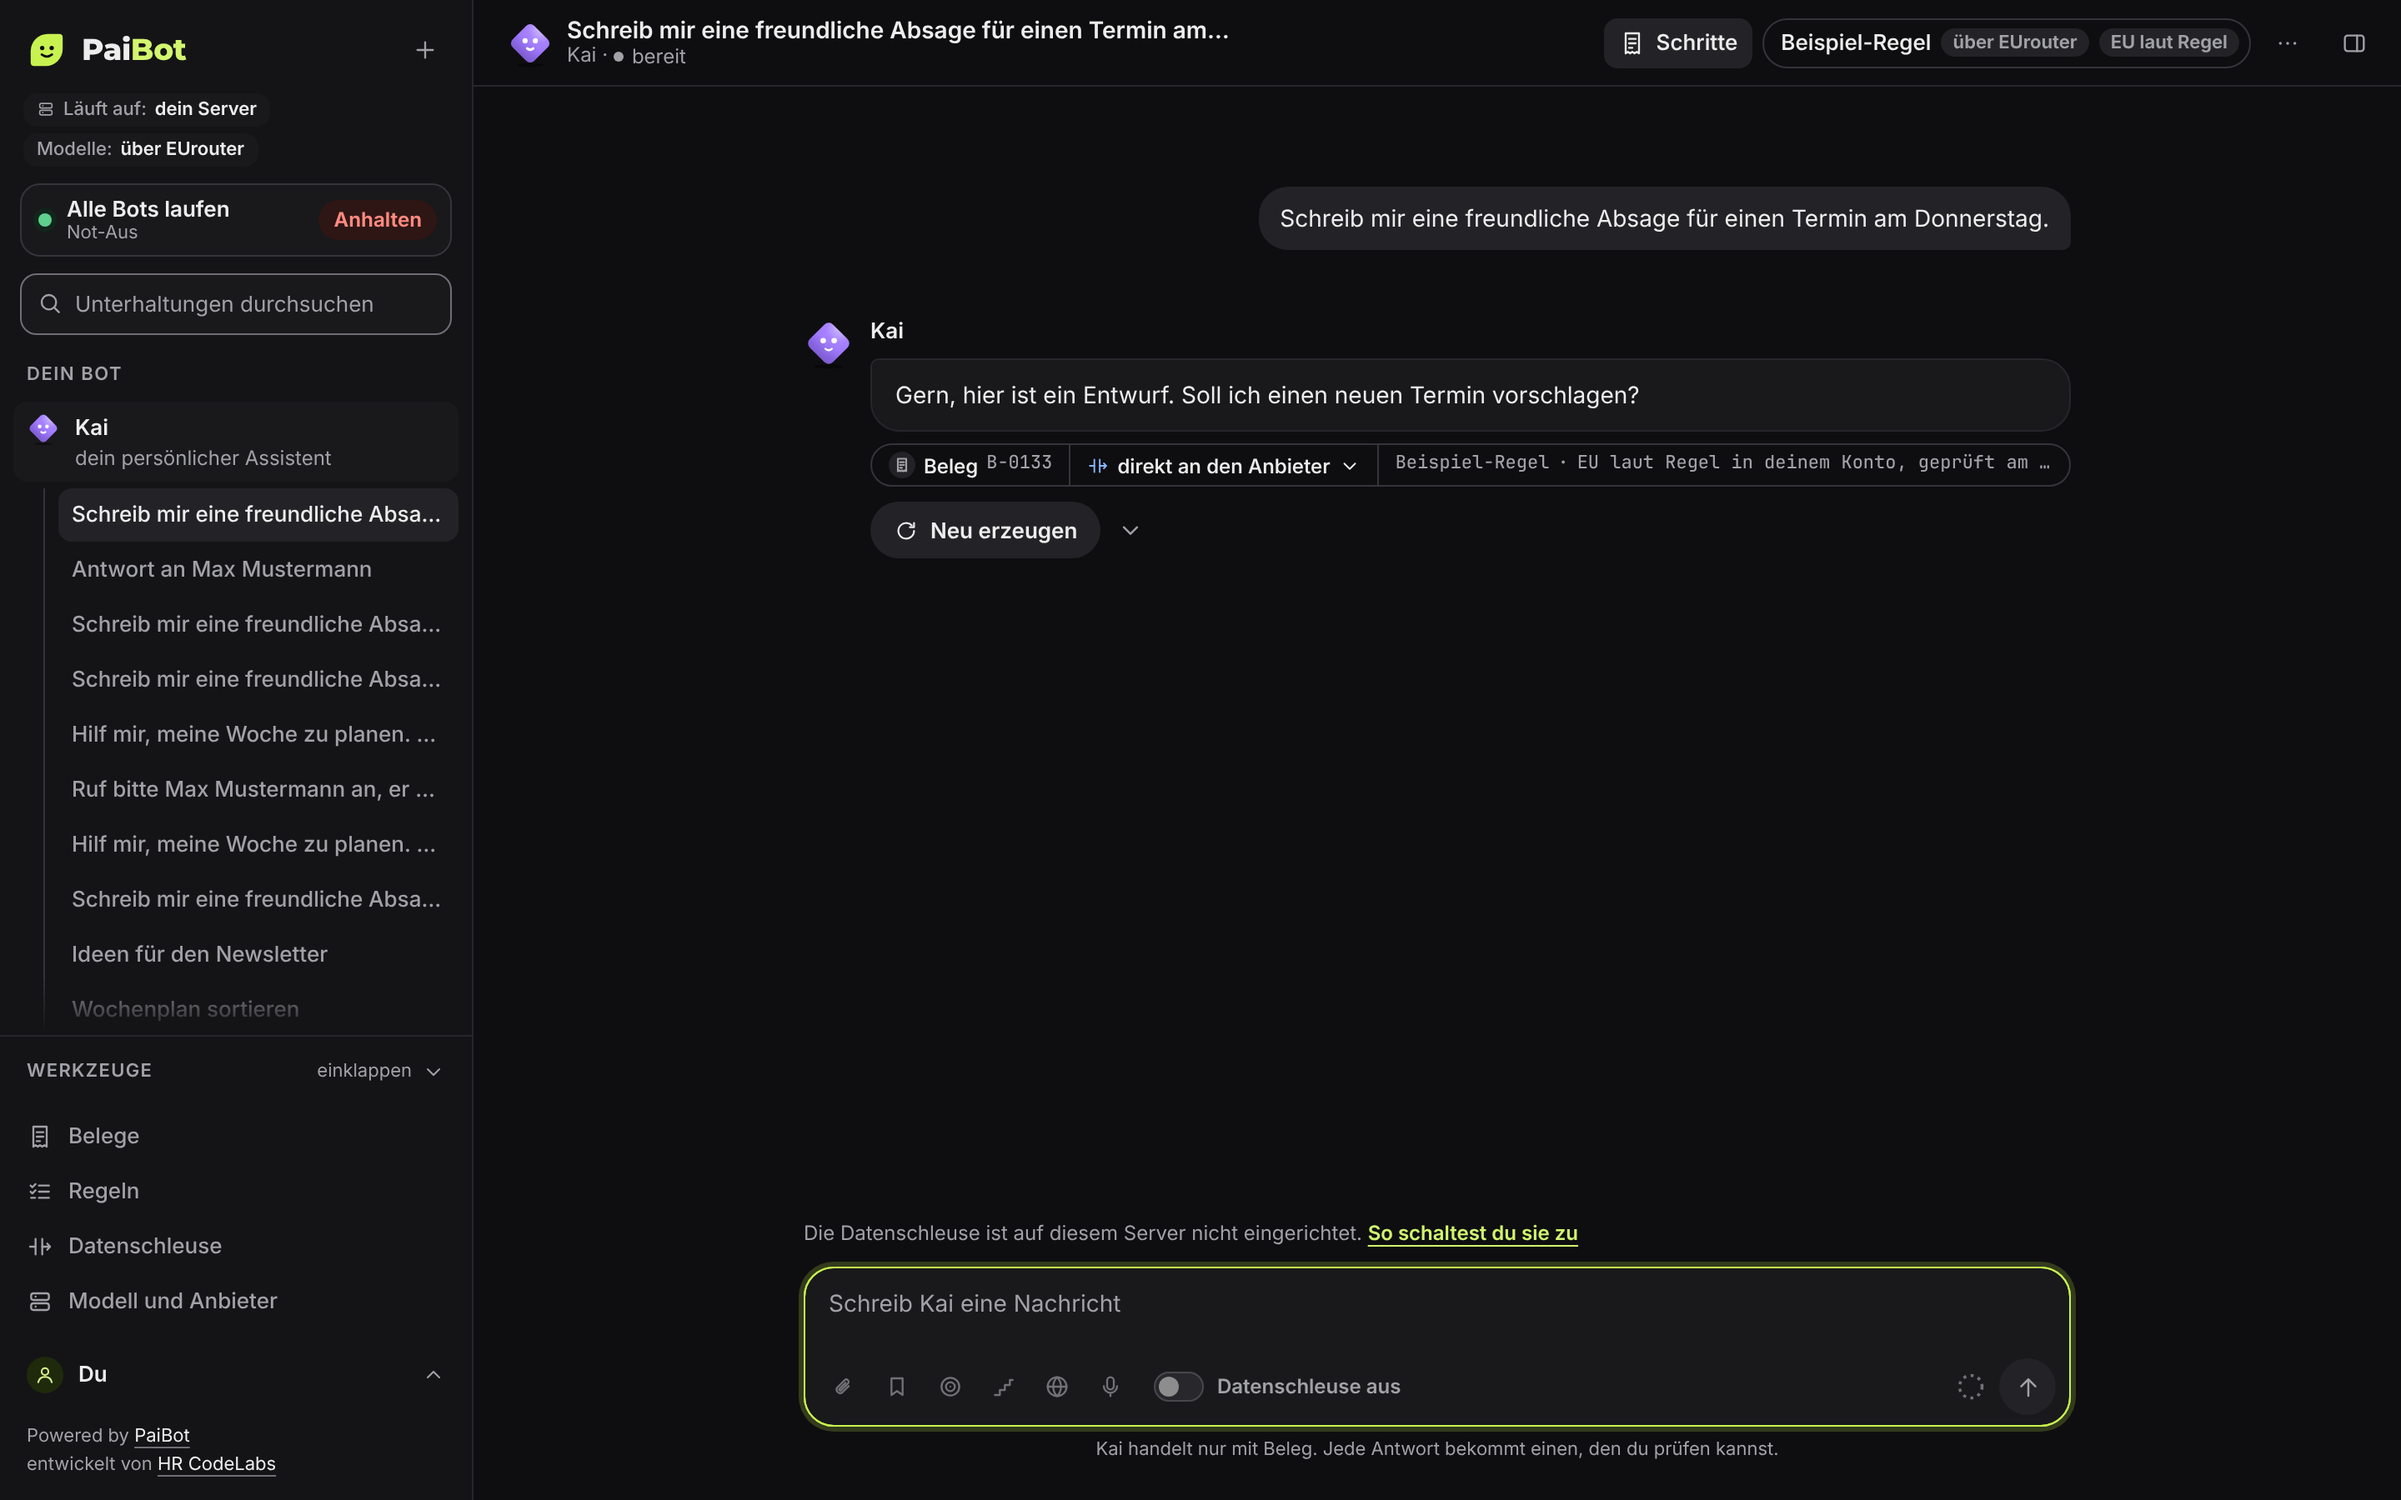
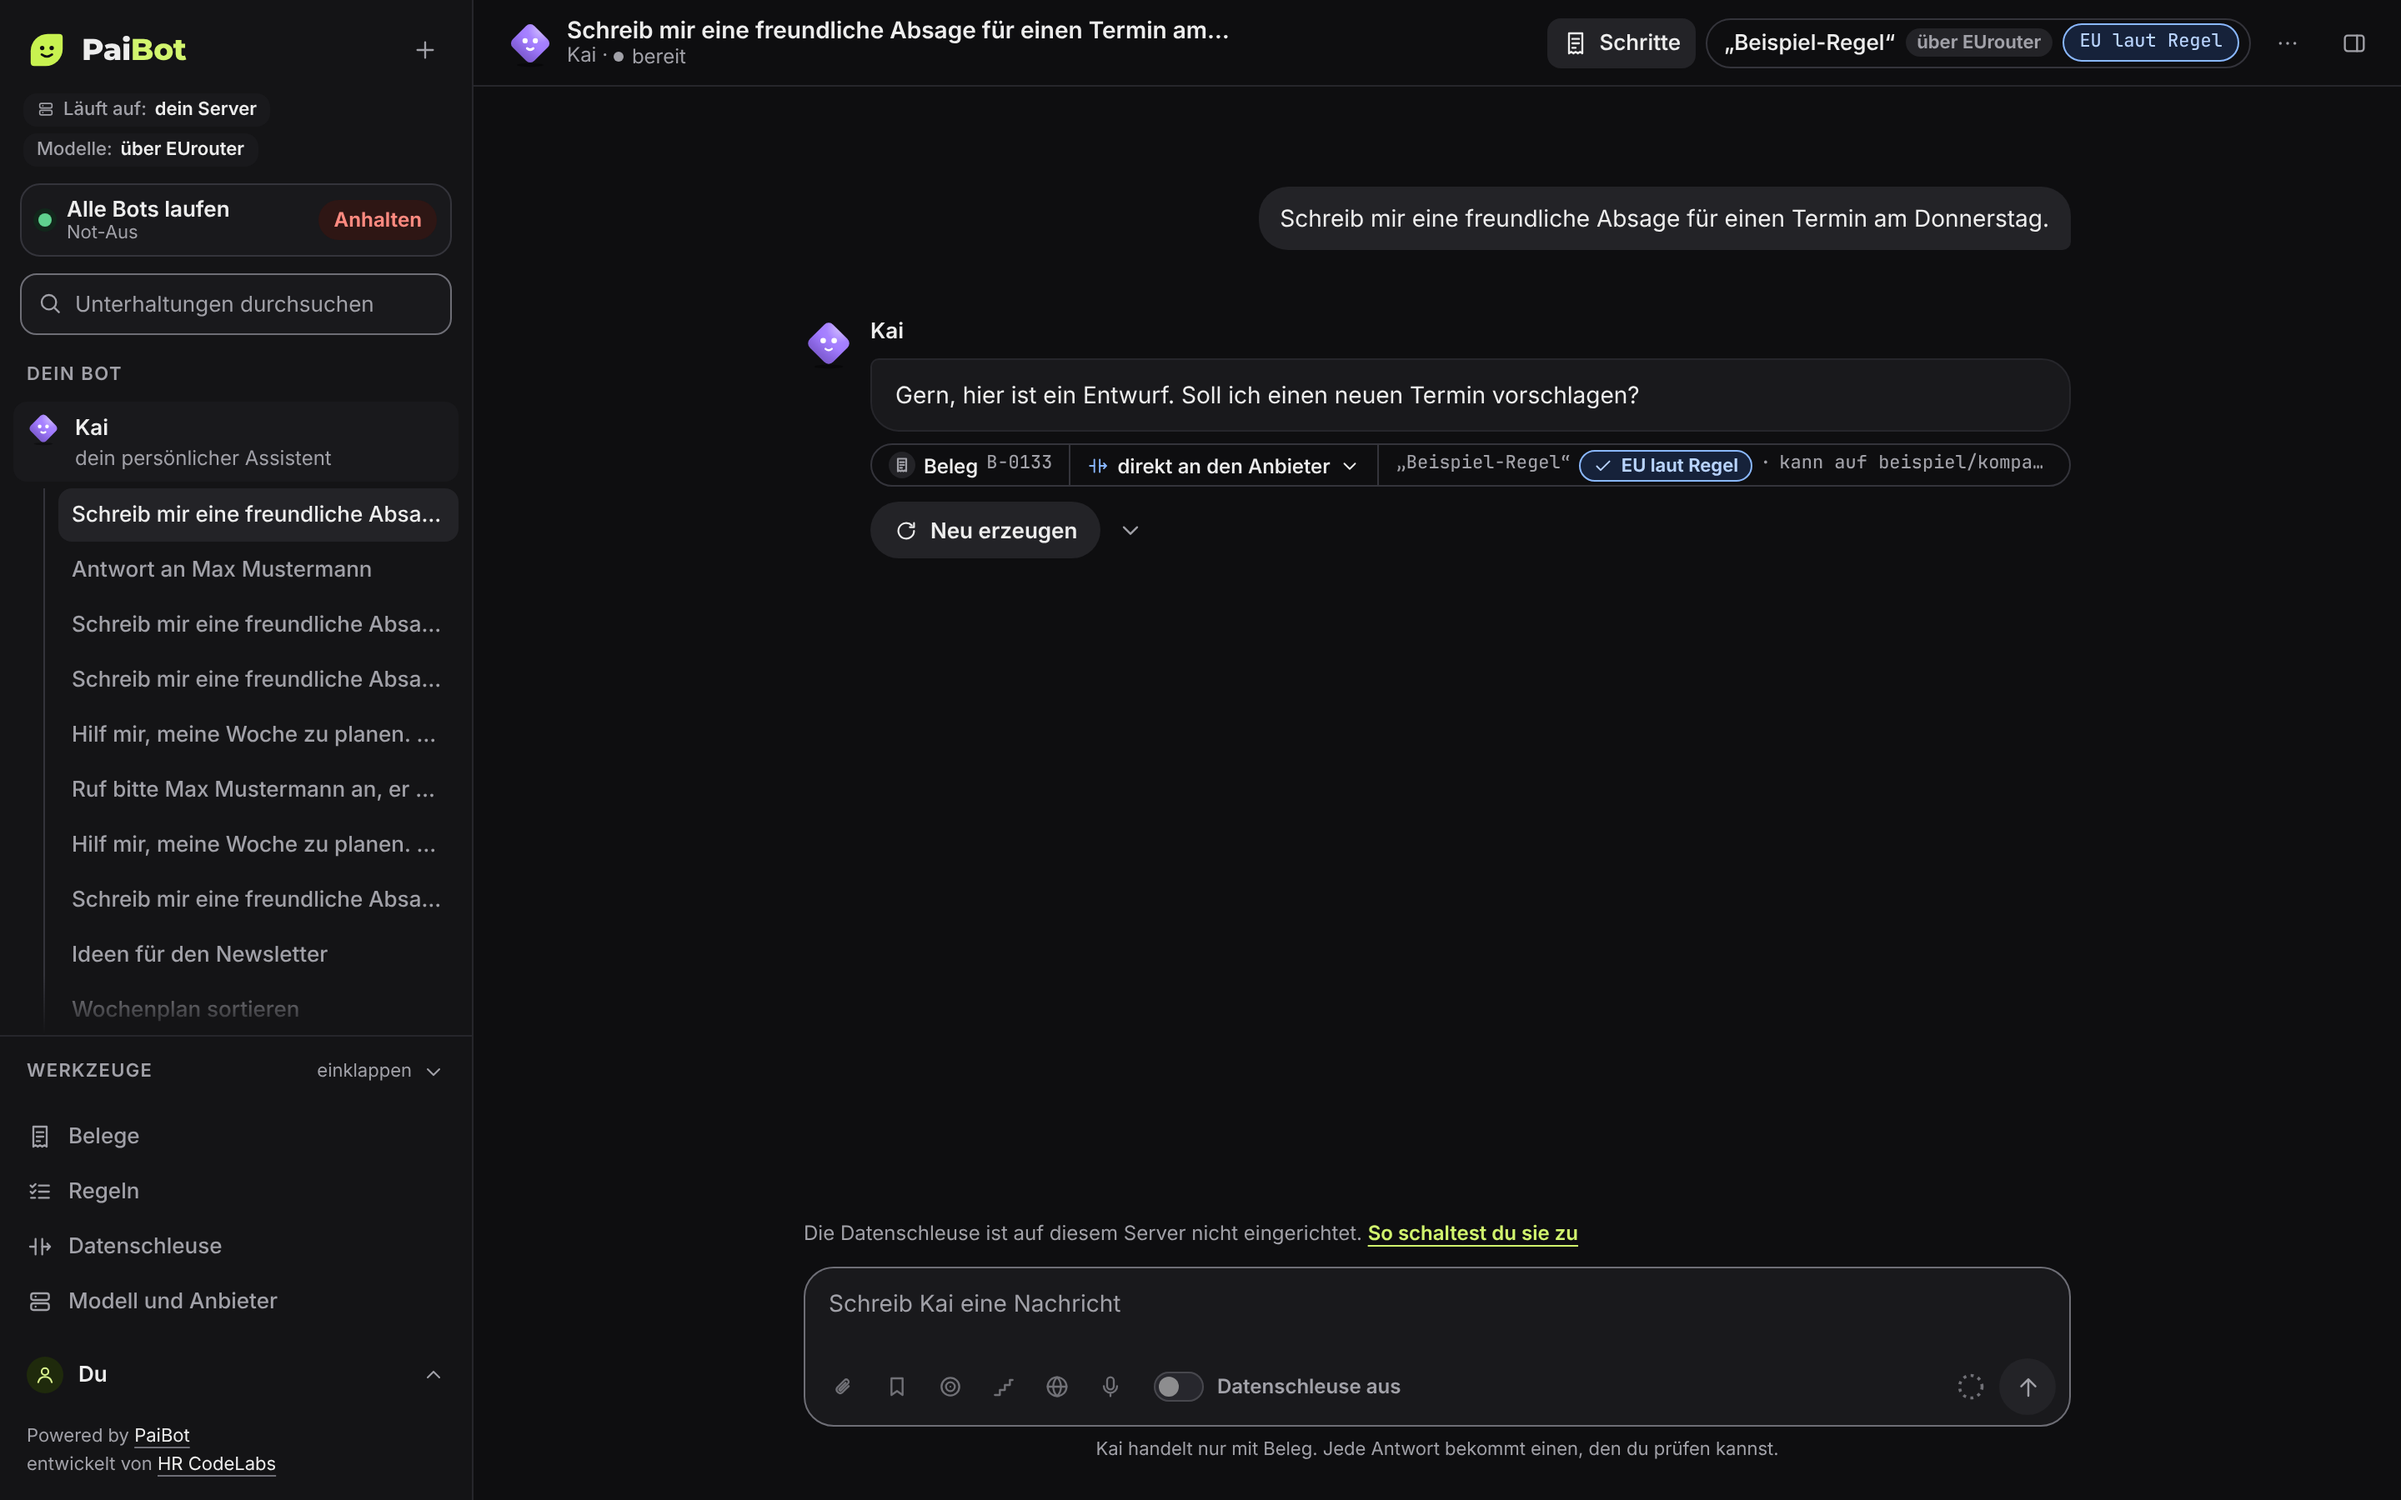
fix(chat): Kennzeichnung unter der Antwort als kurze Marke, Satz im Titel; Bild neu (#77)
Die Marke steht kurz („EU laut Regel“), der ganze Satz mit Herkunft und Datum
im Titel, für Bildschirmleser und aufgeklappt. Das Bild zur Regel im Chat wird
nach dem Neuladen der Seite aufgenommen, weil eine fertige Antwort ihre
Kennzeichnung erst mit dem eigenen Modell der Nachricht trägt.

Claude-Session: https://claude.ai/code/session_01MLo9cAeNc1r994E5agV7ky

diff --git a/packages/ui/src/chat/AntwortZeile.tsx b/packages/ui/src/chat/AntwortZeile.tsx
@@ -51,7 +51,14 @@ export interface ModellAngabe {
    * Kennzeichnung von PaiBot (z. B. „EU laut Regel …“) als eigenes Element mit eigenem Rahmen. Sie
    * kommt nie aus dem Namen, sondern nur von hier.
    */
-  kennzeichnung?: string;
+  kennzeichnung?: KennzeichnungAngabe;
+}
+
+export interface KennzeichnungAngabe {
+  /** Kurze Marke, z. B. „EU laut Regel“. */
+  marke: string;
+  /** Ganzer Satz mit Herkunft und Datum; steht im Titel, für Bildschirmleser und aufgeklappt. */
+  satz: string;
 }
 
 function nameText(modell: ModellAngabe): string {
@@ -59,17 +66,23 @@ function nameText(modell: ModellAngabe): string {
 }
 
 /** Eigenes Element für die Kennzeichnung von PaiBot, für Bildschirmleser getrennt benannt. */
-export function Kennzeichnung({ text, voll = false }: { text: string; voll?: boolean }) {
+export function Kennzeichnung({
+  angabe,
+  voll = false,
+}: {
+  angabe: KennzeichnungAngabe;
+  voll?: boolean;
+}) {
   return (
     <span
       className={styles.kennzeichnung}
       data-art={voll ? "kennzeichnung-voll" : "kennzeichnung"}
       role="note"
-      aria-label={t("antwort.kennzeichnung", { text })}
-      title={text}
+      aria-label={t("antwort.kennzeichnung", { text: angabe.satz })}
+      title={angabe.satz}
     >
       <Icon name="check" />
-      <span>{text}</span>
+      <span>{voll ? angabe.satz : angabe.marke}</span>
     </span>
   );
 }
@@ -191,7 +204,7 @@ export function ModellHerkunft({ modell }: { modell: ModellAngabe }) {
       title={[name, region].filter((x) => x !== undefined).join(" · ")}
     >
       <span className={styles.lang}>{name}</span>
-      {kennzeichnung !== undefined && <Kennzeichnung text={kennzeichnung} />}
+      {kennzeichnung !== undefined && <Kennzeichnung angabe={kennzeichnung} />}
       {region !== undefined && (
         <>
           <span className={styles.lang} aria-hidden="true">
@@ -243,7 +256,7 @@ export function AntwortZeile({ beleg, schleuse, modell, details }: AntwortZeileP
           <li>{region === undefined ? nameText(modell) : `${nameText(modell)} · ${region}`}</li>
           {modell.kennzeichnung !== undefined && (
             <li>
-              <Kennzeichnung text={modell.kennzeichnung} voll />
+              <Kennzeichnung angabe={modell.kennzeichnung} voll />
             </li>
           )}
         </ul>

diff --git a/apps/web/src/app/(app)/chat/ChatSeite.tsx b/apps/web/src/app/(app)/chat/ChatSeite.tsx
@@ -648,7 +648,8 @@ export function ChatSeite({
         </div>
       ) : null;
     }
-    const kennzeichnung = kennzeichnungKurz(modell.vorgabe);
+    const satz = kennzeichnungKurz(modell.vorgabe);
+    const marke = euMarke(modell.vorgabe);
     const herkunft = [
       ausweichKurz(modell.vorgabe),
       antwortHerkunft(modell.anbieter, n.servedBy, bereitschaft.unterAnbieter),
@@ -662,7 +663,7 @@ export function ChatSeite({
         modell={{
           name: modell.name,
           ...(modell.anbieter?.templateKey === "eurouter" ? { nameFrei: true } : {}),
-          ...(kennzeichnung === undefined ? {} : { kennzeichnung }),
+          ...(satz === undefined || marke === undefined ? {} : { kennzeichnung: { marke, satz } }),
           ...(herkunft === "" ? {} : { herkunft }),
         }}
       />

diff --git a/packages/ui/src/chat/AntwortZeile.module.css b/packages/ui/src/chat/AntwortZeile.module.css
@@ -144,7 +144,7 @@ button.teil:focus-visible {
   display: inline-flex;
   align-items: center;
   gap: 4px;
-  min-width: 0;
+  flex: none;
   border: 1px solid var(--eu);
   border-radius: var(--radius-pill);
   background: var(--eu-soft);
@@ -157,9 +157,7 @@ button.teil:focus-visible {
 }
 
 .kennzeichnung > span {
-  min-width: 0;
-  overflow: hidden;
-  text-overflow: ellipsis;
+  white-space: nowrap;
 }
 
 .kennzeichnung svg {

diff --git a/docs/funktion-anbieter-und-modelle.md b/docs/funktion-anbieter-und-modelle.md
@@ -136,11 +136,11 @@ Mit dem normalen Schlüssel kann PaiBot nicht lesen, was eine Regel vorgibt. Mit
 
     ![Nach „Alle Regeln erneut prüfen“: Meldung „Erneut gelesen. Aktualisiert: 1.“](assets/screenshots/modelle-regel-neu-pruefen.png)
 35. Kann eine Regel ausweichen, sagt PaiBot es: „Kann auf … ausweichen“, wenn die Regel Ausweich-Modelle nennt, oder „Kann ausweichen“, wenn sie es erlaubt. Wer tatsächlich antwortet, steht an jeder Antwort. Dieselbe Regel hat in echten Aufrufen schon von verschiedenen Anbietern geantwortet.
-36. Wähle die Regel und klicke „Modell übernehmen“. Im Chat steht die Marke im Kopf und in der Zeile unter der Antwort, mit dem Datum. Der Name der Regel steht dort als schlichter Text in Anführungszeichen; die Kennzeichnung ist ein eigenes Element mit eigenem Rahmen. Was in Anführungszeichen steht, hast du vergeben, die Kennzeichnung kommt von PaiBot.
+36. Wähle die Regel und klicke „Modell übernehmen“. Im Chat steht die Marke im Kopf und in der Zeile unter der Antwort. Fährst du mit der Maus darüber oder klappst die Zeile auf, steht der ganze Satz mit Herkunft und Datum da. Der Name der Regel steht dort als schlichter Text in Anführungszeichen; die Kennzeichnung ist ein eigenes Element mit eigenem Rahmen. Was in Anführungszeichen steht, hast du vergeben, die Kennzeichnung kommt von PaiBot.
 
     ![Karte „Routing-Regel“ nach „Modell übernehmen“: „Pai arbeitet jetzt mit Beispiel-Regel.“](assets/screenshots/modelle-regel-uebernommen.png)
 
-    ![Chat: im Kopf „Beispiel-Regel“ mit „EU laut Regel“; unter der Antwort „EU laut Regel in deinem Konto, geprüft am …“ und „kann auf … ausweichen“](assets/screenshots/chat-regel-eu-laut-regel.png)
+    ![Chat: im Kopf „Beispiel-Regel“ mit „EU laut Regel“; unter der Antwort die Marke „EU laut Regel“ als eigenes Element und „kann auf … ausweichen“](assets/screenshots/chat-regel-eu-laut-regel.png)
 37. Mit „Zweiten Schlüssel entfernen“ löschst du den Schlüssel und die gelesenen Vorgaben. Die Regeln bleiben, die Kennzeichnung entfällt.
 
     ![Zurück beim ersten Anbieter: „Pai arbeitet jetzt mit Beispiel-Modell Allrounder.“](assets/screenshots/modelle-modell-zurueck.png)
